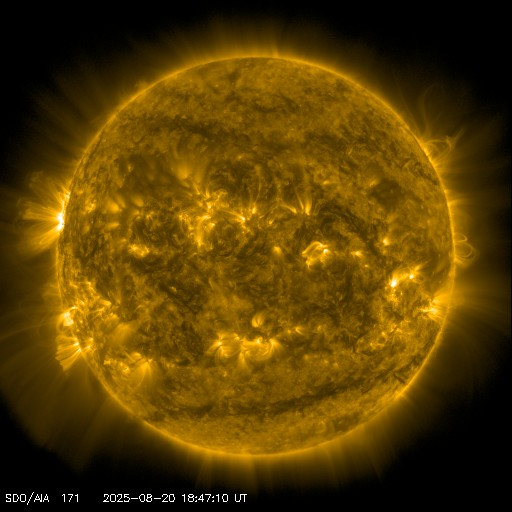
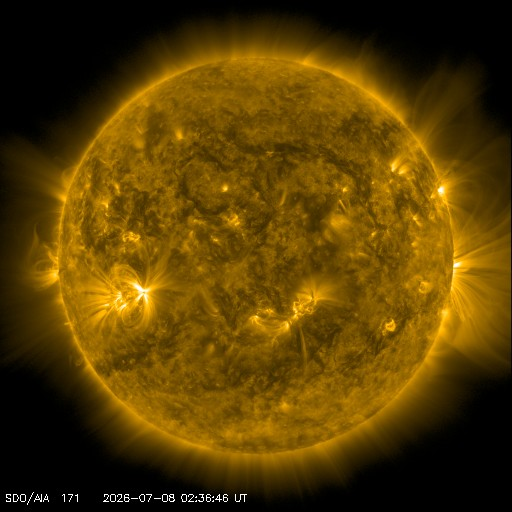
feat: Expand texture download script to include additional planetary textures and update texture URL mappings

diff --git a/apps/web/src/components/SolarSystem.tsx b/apps/web/src/components/SolarSystem.tsx
@@ -70,8 +70,15 @@ class TextureErrorBoundary extends Component<TextureErrorBoundaryProps, TextureE
 // Texture URL map for planets
 const TEXTURE_URLS: Record<string, string> = {
   SUN: '/assets/sun/sun_color.jpg',
+  MERCURY: '/assets/mercury/mercury_2k.jpg',
+  VENUS: '/assets/venus/venus_2k.jpg',
   EARTH: '/assets/earth/earth_2k.jpg',
   MOON: '/assets/moon/moon_2k.jpg',
+  MARS: '/assets/mars/mars_color.jpg',
+  JUPITER: '/assets/jupiter/jupiter_2k.jpg',
+  SATURN: '/assets/saturn/saturn_2k.jpg',
+  URANUS: '/assets/uranus/uranus_2k.jpg',
+  NEPTUNE: '/assets/neptune/neptune_2k.jpg',
 }
 
 /**